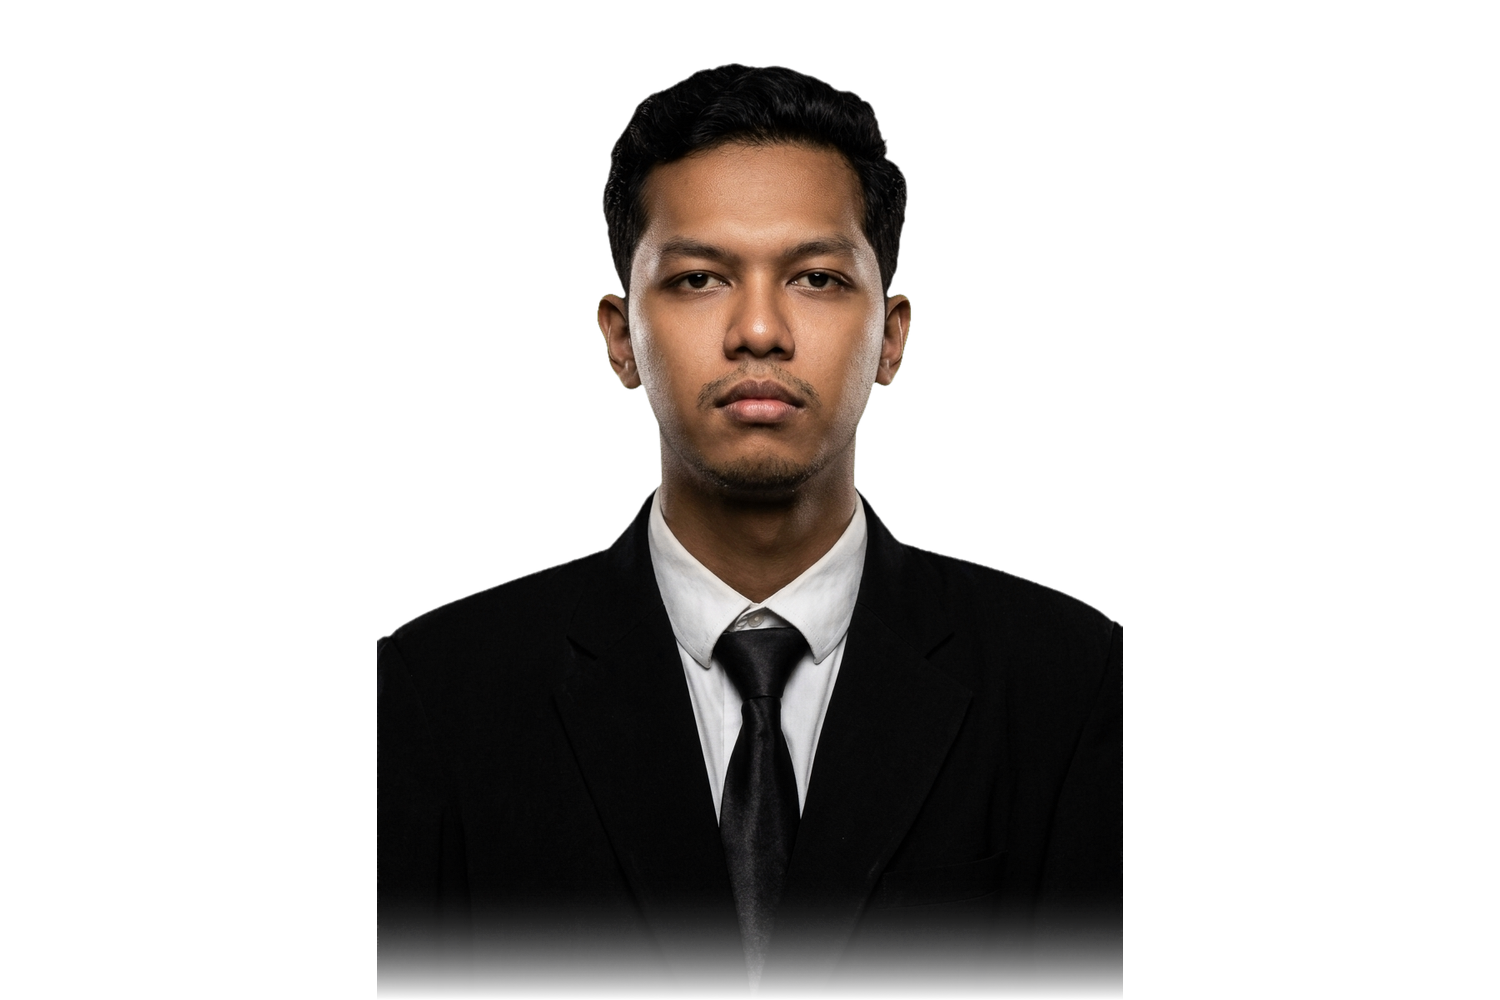
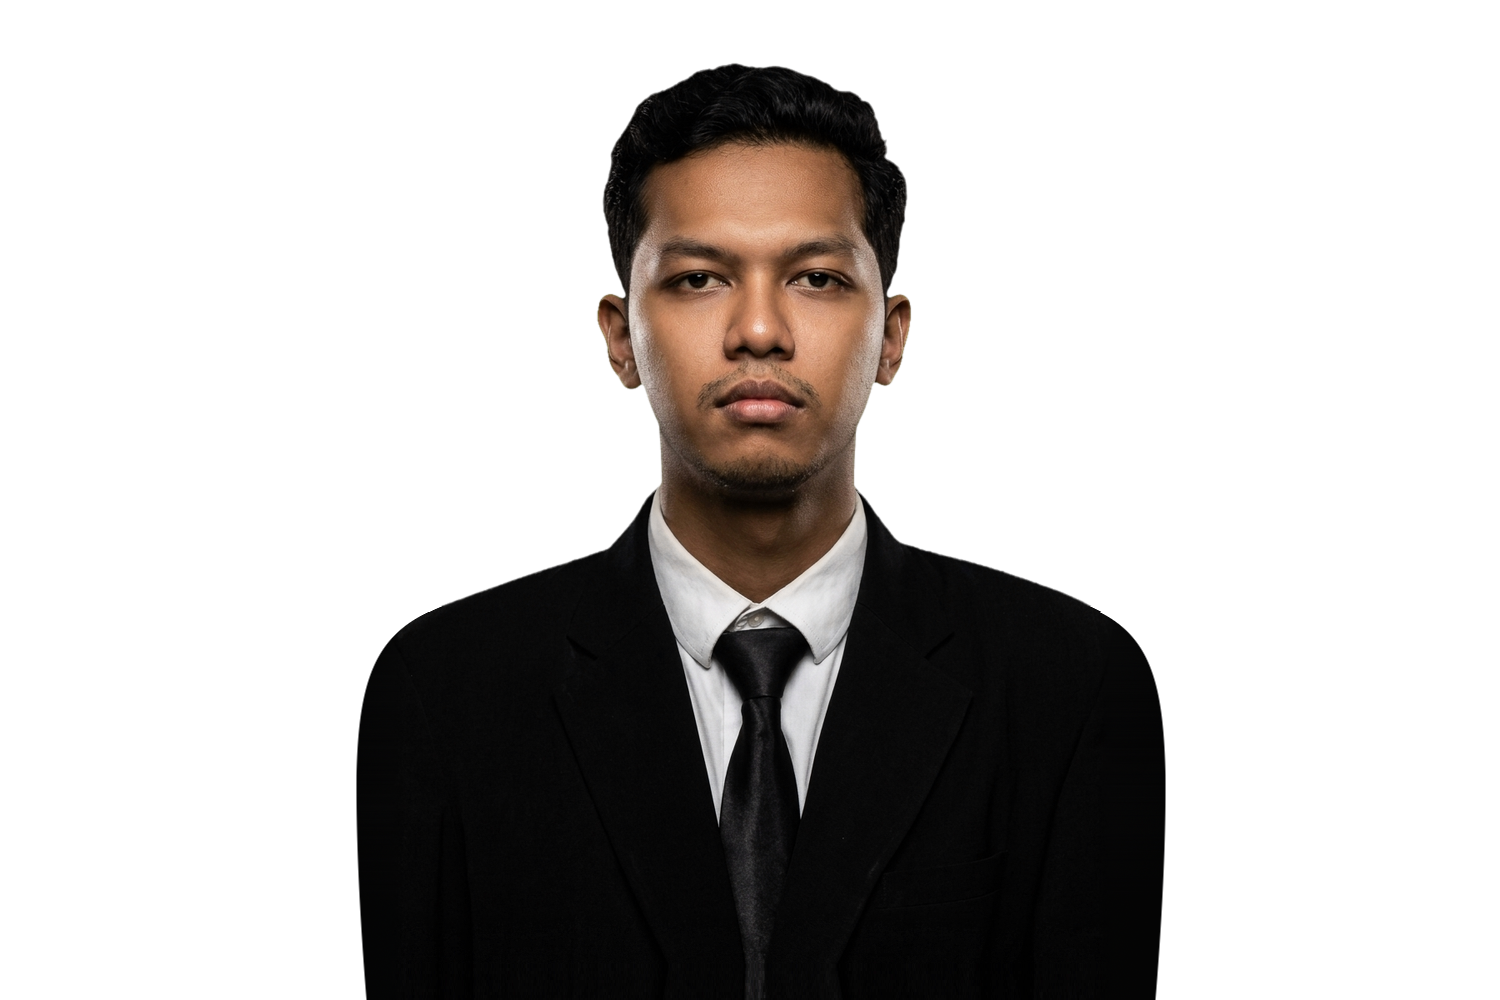
fix(hero): reconstruct natural suit shoulder contours and prevent CSS portrait clipping

Changed region(s): [[0.2147, 0.62, 0.7973, 1.0]]

diff --git a/index.html b/index.html
@@ -545,27 +545,27 @@
       display: flex;
       flex-direction: column;
       gap: 1.5rem;
-      padding: 5.5rem var(--gutter) 0;
+      padding: 6.25rem var(--gutter) 0;
     }
     @media (min-width: 768px) {
       .hero-top-row {
         flex-direction: row;
         align-items: flex-start;
         justify-content: space-between;
-        padding-top: 8rem;
+        padding-top: clamp(6.25rem, 11vh, 7.5rem);
       }
     }
     .hero-roles {
       font-family: var(--font-display);
       text-transform: uppercase;
-      line-height: 1.05;
+      line-height: 1.04;
       letter-spacing: -0.01em;
       color: var(--foreground);
-      font-size: clamp(1.4rem, 5.2vw, 1.85rem);
+      font-size: clamp(1.35rem, 4.8vw, 1.8rem);
     }
     @media (min-width: 640px) {
       .hero-roles {
-        font-size: var(--h2-size);
+        font-size: clamp(1.65rem, 2.6vw, 2.75rem);
       }
     }
     .hero-roles .role-line {
@@ -605,8 +605,9 @@
       bottom: 0;
       left: 50%;
       transform: translateX(-50%);
-      height: 70vh;
-      width: 88vw;
+      height: 68vh;
+      max-height: calc(100svh - 5.25rem);
+      width: 100vw;
       z-index: 20;
       pointer-events: none;
       display: flex;
@@ -614,24 +615,40 @@
       justify-content: center;
     }
     @media (min-width: 640px) {
-      .hero-portrait-wrap { width: 52vw; height: 80vh; }
+      .hero-portrait-wrap {
+        height: 75vh;
+        max-height: calc(100svh - 5.75rem);
+      }
     }
     @media (min-width: 1024px) {
-      .hero-portrait-wrap { width: 36vw; height: 86vh; }
+      .hero-portrait-wrap {
+        height: 78vh;
+        max-height: calc(100svh - 6.25rem);
+      }
     }
 
     .hero-portrait-inner {
       position: relative;
-      width: 100%;
+      width: auto;
       height: 100%;
+      display: flex;
+      align-items: flex-end;
+      justify-content: center;
       pointer-events: auto;
       overflow: visible;
-      filter: drop-shadow(0 8px 18px rgba(0, 0, 0, 0.18));
+    }
+    .hero-portrait-inner picture {
+      height: 100%;
+      width: auto;
+      display: flex;
+      align-items: flex-end;
+      justify-content: center;
     }
     .hero-portrait-img {
-      width: 100%;
+      width: auto;
       height: 100%;
-      object-fit: cover;
+      max-width: none;
+      object-fit: contain;
       object-position: center bottom;
       transition: filter 300ms ease;
     }
@@ -641,9 +658,9 @@
       position: absolute;
       inset-inline: 0;
       bottom: 0;
-      z-index: 20;
-      height: 26vh;
-      background: linear-gradient(to bottom, transparent, #08080a 90%);
+      z-index: 22;
+      height: 30vh;
+      background: linear-gradient(to bottom, transparent 0%, rgba(8, 8, 10, 0.72) 58%, #08080a 92%);
       pointer-events: none;
     }
 
@@ -674,7 +691,7 @@
         bottom: 0;
         transform: translateY(6%);
         line-height: var(--hero-lh);
-        font-size: var(--hero-size);
+        font-size: clamp(9.5rem, min(21.5vw, 39vh), var(--hero-size));
         letter-spacing: -0.01em;
         z-index: 10;
         text-shadow: none;
@@ -2259,8 +2276,8 @@
       <div class="hero-portrait-wrap">
         <div class="hero-portrait-inner" id="hero-portrait-trigger">
           <picture>
-            <source srcset="portrait.webp?v=5" type="image/webp">
-            <img src="portrait.png?v=5" alt="Muhammad Nur Haqiqi" class="hero-portrait-img" loading="eager" decoding="async">
+            <source srcset="portrait.webp?v=6" type="image/webp">
+            <img src="portrait.png?v=6" alt="Muhammad Nur Haqiqi" class="hero-portrait-img" loading="eager" decoding="async">
           </picture>
         </div>
       </div>
